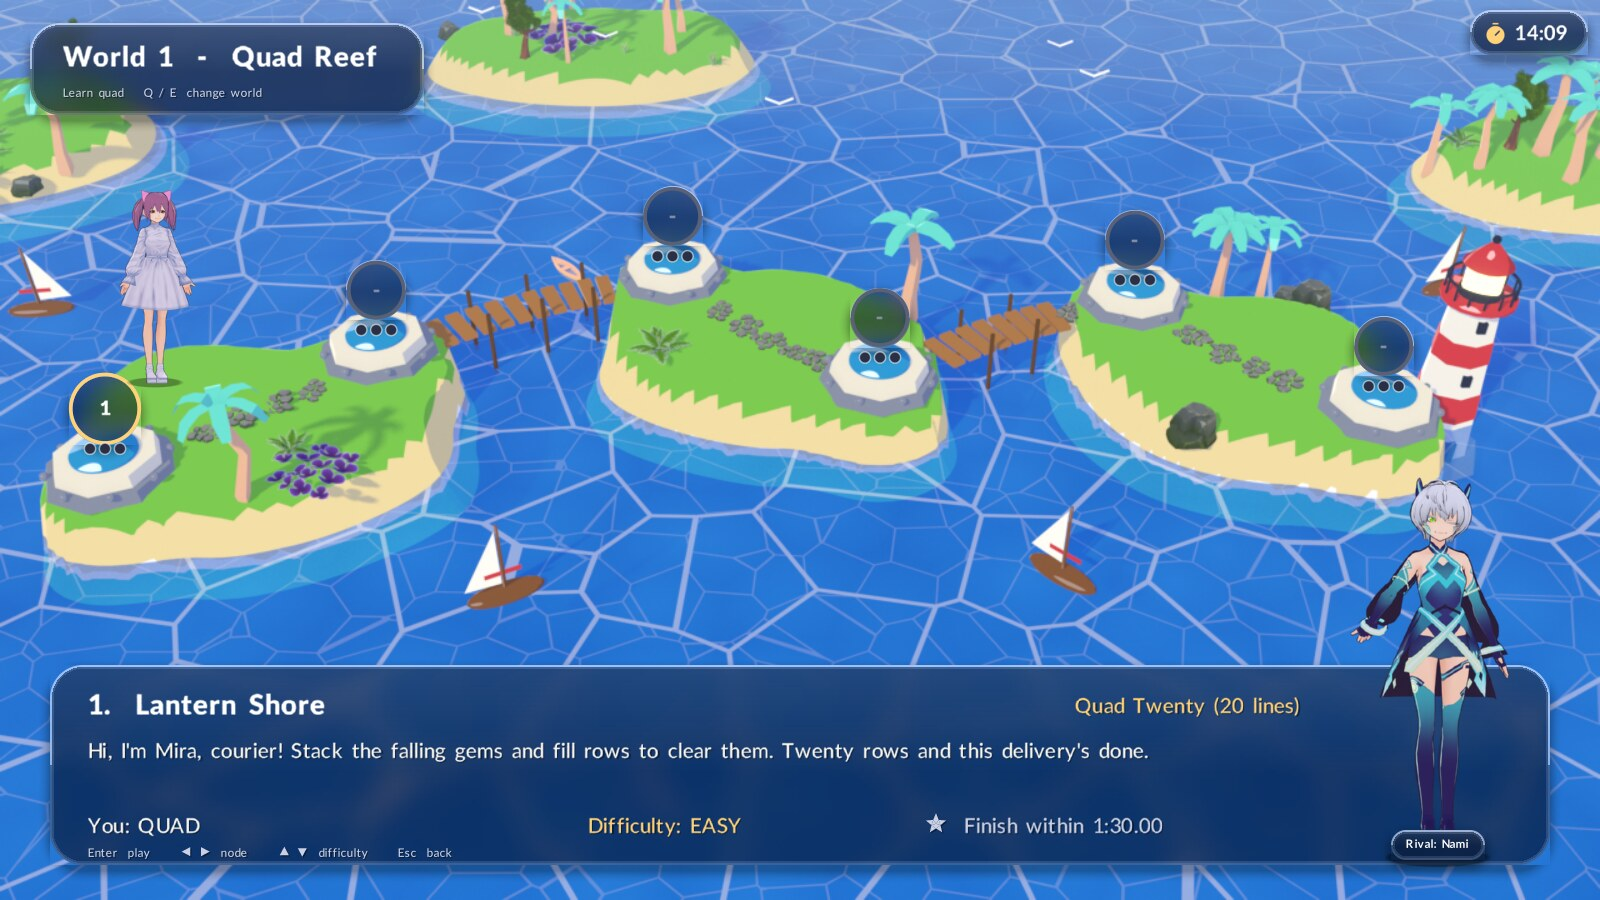
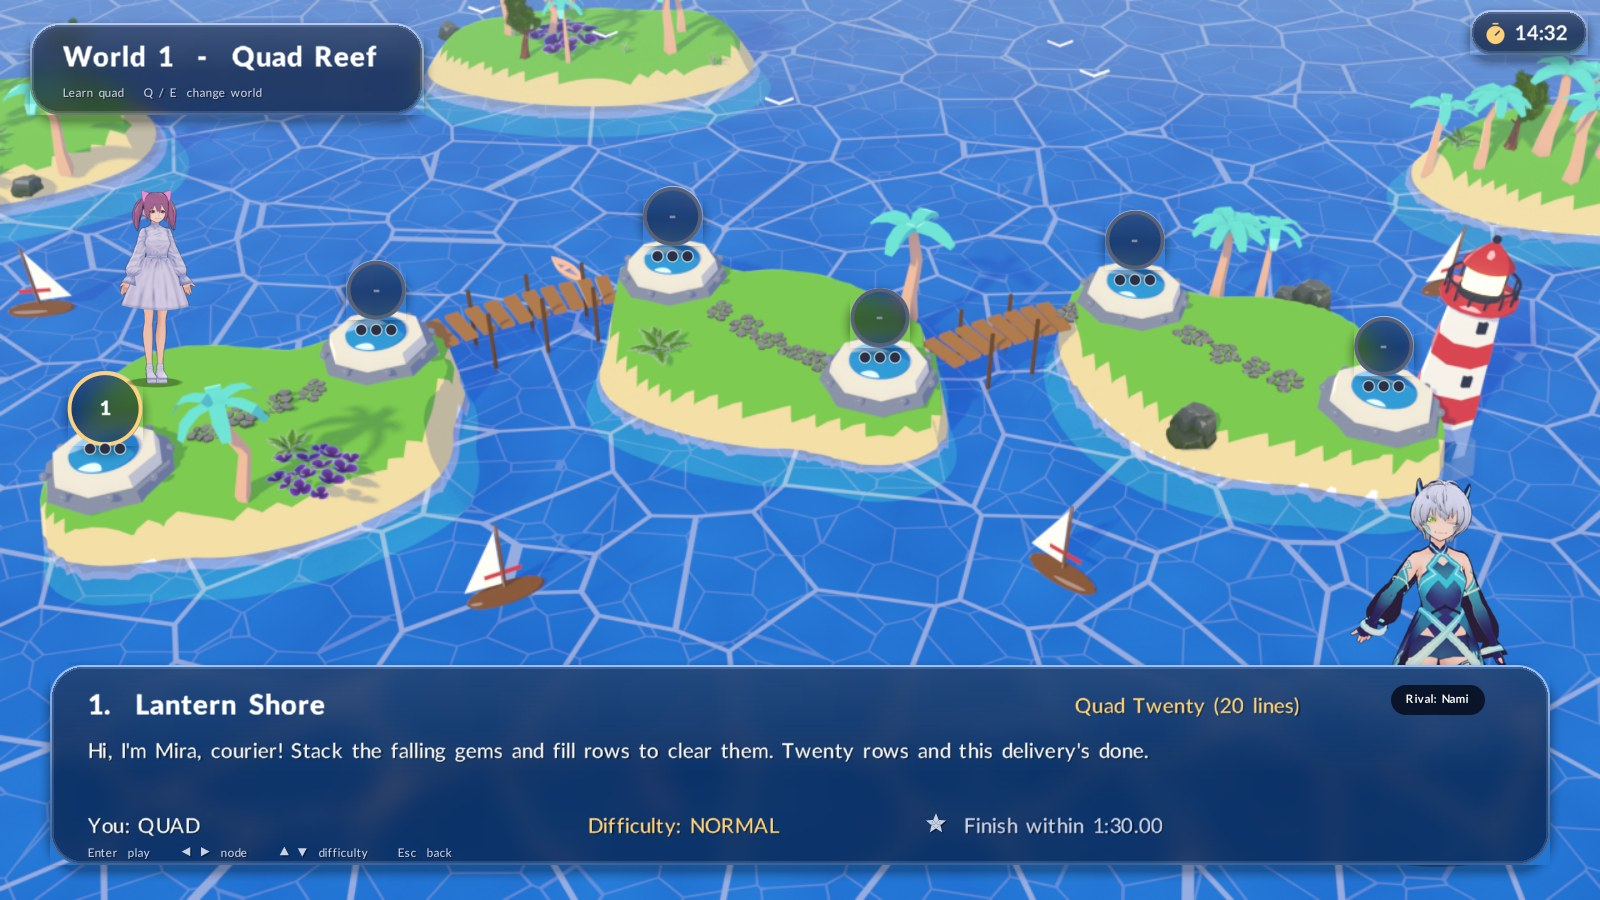
Character back in the well; the story rival stands behind its card
- The player's character is ghosted large and faint in the well again.
- Story map: the world's rival used to be drawn on top of the node card,
  over its text; it is now drawn first, so it stands behind the card, and
  the "Rival" tag sits inside the card's top-right corner.

Claude-Session: https://claude.ai/code/session_01Ef4Vv3Hk3wDPv7h7Fse5ye

Changed region(s): [[0.8438, 0.7156, 0.9375, 0.9644], [0.0312, 0.4044, 0.0938, 0.4978], [0.4375, 0.9022, 0.5, 0.9333]]

diff --git a/crates/purtris-client/src/render.rs b/crates/purtris-client/src/render.rs
@@ -570,10 +570,11 @@ pub fn style_accent(s: Style) -> u32 {
 
 /// The cabinet around a well, in the seat's colour: ink outline, a chunky glossy frame with a
 /// light inner bevel and halftone dots toward the bottom, the garbage meter's groove in the
-/// left bar, then a dark well tinted toward the seat's colour with a faint grid. Painted once
-/// in real pixels at scale `k`, offset by WELL_PAD.
+/// left bar, then a dark well tinted toward the seat's colour with a faint grid and the
+/// player's character ghosted large behind the cells. Painted once in real pixels at scale
+/// `k`, offset by WELL_PAD.
 #[allow(clippy::too_many_arguments)]
-fn paint_well(k: f32, fw: i32, fh: i32, cell: i32, cols: i32, rows: i32, style: Style, color: u32, r: i32) -> Canvas {
+fn paint_well(k: f32, fw: i32, fh: i32, cell: i32, cols: i32, rows: i32, style: Style, color: u32, r: i32, ghost: Option<&str>) -> Canvas {
     let p = WELL_PAD;
     let mut c = Canvas::new(((fw + 2 * p) as f32 * k).round() as i32, ((fh + 2 * p) as f32 * k).round() as i32);
     c.k = k;
@@ -615,6 +616,12 @@ fn paint_well(k: f32, fw: i32, fh: i32, cell: i32, cols: i32, rows: i32, style: 
     c.round_rect(p - 3, p - 3, fw + 6, fh + 6, r + 1, INK, 255);
     c.round_grad(p, p, fw, fh, r - 2, mix(0xFF0C_1132, color, 46), mix(0xFF04_050E, color, 24), 255);
     c.set_clip(p, p, fw, fh);
+    if let Some(id) = ghost {
+        // the player's character, large and faint, low in the well
+        let size = fw * 13 / 10;
+        crate::assets::draw_portrait(&mut c, id, "smile", p + (fw - size) / 2, p + fh - size * 19 / 20, size, 40, false);
+        c.rect_a(p, p, fw, fh, mix(0xFF04_050E, color, 30), 70);
+    }
     let ga = if style == Style::Chain || style == Style::Capsule { 12 } else { 18 };
     for x in 1..cols {
         c.rect_a(p + x * cell, p, 1, fh, 0xFFFF_FFFF, ga);
@@ -665,7 +672,7 @@ pub struct Renderer {
     pub scene: Scene,
     pub fx: Fx,
     pub geoms: [Geom; 6],
-    wells: std::collections::HashMap<(i32, i32, i32, u32, u32, u8), Canvas>,
+    wells: std::collections::HashMap<(i32, i32, i32, u32, u32, u8, usize), Canvas>,
     /// where each seat's side column has got to (the next free y)
     side_y: [i32; 6],
 }
@@ -813,7 +820,8 @@ impl Renderer {
                 Style::Capsule => 2,
                 Style::Panel => 3,
             };
-            let key = (fw, fh, cell, color, cv.k.to_bits(), sk);
+            let ghost = if st.characters { Some(v.chars[i].min(crate::cast::CAST.len() - 1)) } else { None };
+            let key = (fw, fh, cell, color, cv.k.to_bits(), sk, ghost.unwrap_or(usize::MAX));
             if self.wells.len() > 24 {
                 self.wells.clear();
             }
@@ -821,7 +829,7 @@ impl Renderer {
                 let (hx, hy, hw, hh, _) = hold_rect(&g);
                 hold_tab(cv, deco, hx, hy, hw, hh, &l);
             }
-            let wc = self.wells.entry(key).or_insert_with(|| paint_well(cv.k, fw, fh, cell, g.cols, g.rows, style, color, r));
+            let wc = self.wells.entry(key).or_insert_with(|| paint_well(cv.k, fw, fh, cell, g.cols, g.rows, style, color, r, ghost.map(|k| crate::cast::CAST[k].id)));
             cv.blit(wc, g.fx - WELL_PAD, g.fy - WELL_PAD, 255);
             // live light on the frame: it heats up with combos and breathes red in danger
             let edge = if danger { mix(color, l.warn, (120.0 + 135.0 * pulse) as u32) } else { lighten(color, 80) };

diff --git a/crates/purtris-client/src/app.rs b/crates/purtris-client/src/app.rs
@@ -1115,6 +1115,12 @@ impl App {
         // node card, kept to the bottom band the maps leave clear
         let n = &w.nodes[node];
         let open = unlocked(&self.prog, world, node);
+        // the world's rival stands behind the card, never in front of its text
+        if self.st.characters {
+            let (rid, _) = crate::assets::rival(world);
+            let expr = if n.level.boss { "angry" } else { "smug" };
+            crate::assets::draw_char(&mut self.cv, rid, expr, 1150, 690, 340, 255);
+        }
         self.cv.glass(40, 532, 1200, 160, 26, ui::GLASS, ui::GLASS_A);
         self.cv.text_weight(70, 548, &format!("{}.  {}", node + 1, n.name), 3, 0xFFFF_FFFF, 255, Weight::Black);
         let kind = match (n.level.mode, n.level.foes.len(), n.level.allies.len()) {
@@ -1126,12 +1132,10 @@ impl App {
         };
         let (rid, rname) = crate::assets::rival(world);
         if self.st.characters {
-            let expr = if n.level.boss { "angry" } else { "smug" };
-            crate::assets::draw_char(&mut self.cv, rid, expr, 1150, 690, 340, 255);
             let tag = format!("Rival: {}", rname);
             let tw = Canvas::text_wb(&tag, 1, Weight::Bold) + 24;
-            self.cv.glass(1150 - tw / 2, 664, tw, 24, 12, ui::GLASS, 210);
-            self.cv.text_weight(1150 - tw / 2 + 12, 669, &tag, 1, 0xFFFF_FFFF, 255, Weight::Bold);
+            self.cv.round_rect(1150 - tw / 2, 548, tw, 24, 12, 0xFF05_0814, 200);
+            self.cv.text_weight(1150 - tw / 2 + 12, 553, &tag, 1, 0xFFFF_FFFF, 255, Weight::Bold);
         }
         let kw = Canvas::text_w(&kind, 2);
         self.cv.text_s(1040 - kw, 554, &kind, 2, l.accent);
